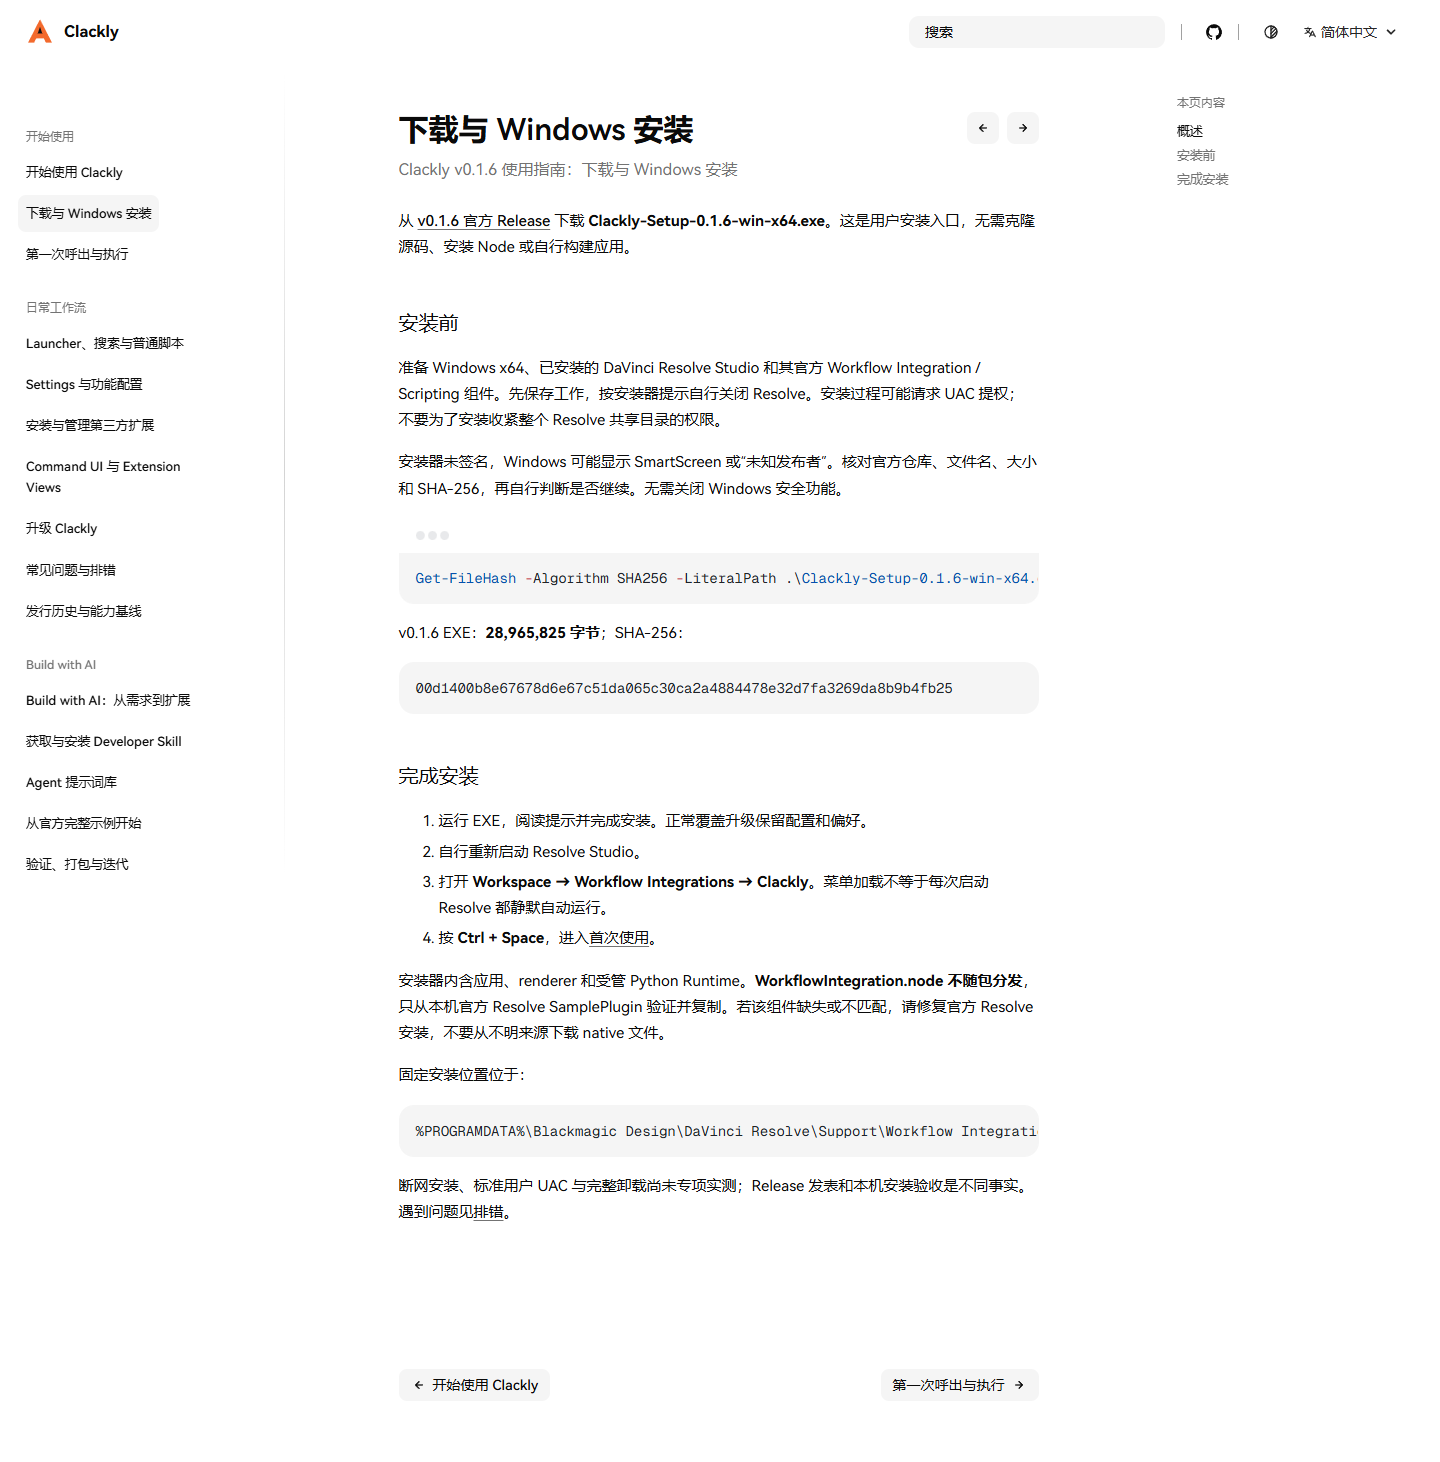
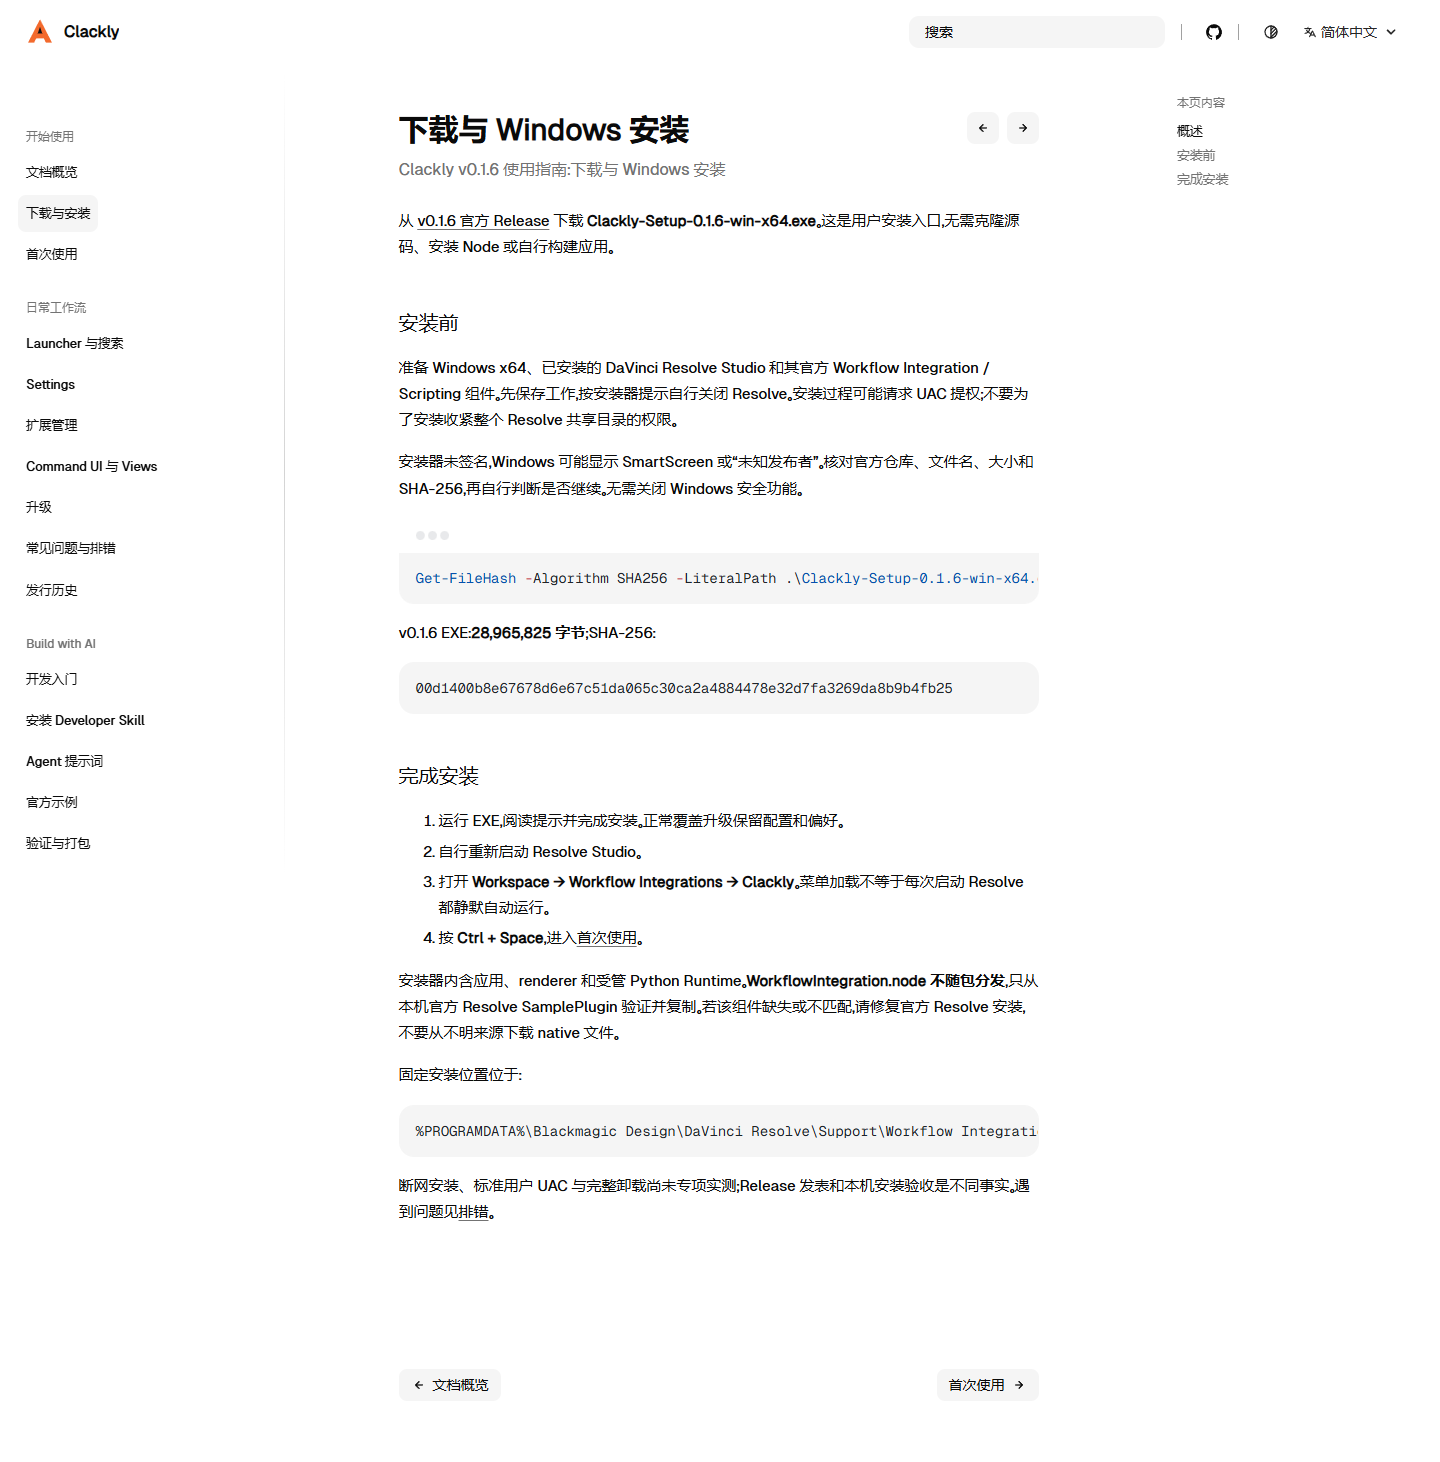
fix(docs): follow the native Black Theme reading experience
Assisted-by: Cindy (https://cindy.app)

diff --git a/site/tests/site.spec.ts b/site/tests/site.spec.ts
@@ -74,7 +74,7 @@ test('mobile navigation works with keyboard and opens a real docs page', async (
   await button.focus();
   await page.keyboard.press('Enter');
   await expect(button).toHaveAttribute('aria-expanded', 'true');
-  await page.locator('.mobile-nav').getByRole('link', { name: '下载与 Windows 安装', exact: true }).click();
+  await page.locator('.mobile-nav').getByRole('link', { name: '下载与安装', exact: true }).click();
   await expect(page).toHaveURL(/\/docs\/install\/$/);
 });
 
@@ -85,6 +85,8 @@ test('responsive pages load assets without overflow or browser errors', async ({
   for (const [name, route, width] of [
     ['desktop', '', 1440], ['mobile', '', 390], ['small', '', 320],
     ['desktop-en', 'en/', 1440], ['mobile-en', 'en/', 390],
+    ['overview', 'docs/', 1440], ['overview-mobile', 'docs/', 320],
+    ['overview-en', 'en/docs/', 1440], ['overview-en-mobile', 'en/docs/', 320],
     ['docs-zh', 'docs/install/', 1440], ['docs-mobile', 'docs/install/', 390],
     ['docs-en', 'en/docs/developer/', 1440], ['docs-en-mobile', 'en/docs/developer/', 320],
     ['prompts', 'docs/developer/prompts/', 1440], ['reference-mobile', 'docs/developer/reference/views/', 390],
@@ -99,12 +101,29 @@ test('responsive pages load assets without overflow or browser errors', async ({
   expect(errors).toEqual([]);
 });
 
-test('theme switch changes the reading surface and remains usable', async ({ page }) => {
-  await page.goto('./docs/');
-  const before = await page.locator('html').getAttribute('data-theme');
-  await page.locator('starlight-theme-black-select button').click();
-  await expect(page.locator('html')).not.toHaveAttribute('data-theme', before!);
-  await expect(page.locator('h1')).toBeVisible();
+test('theme switch persists across the overview to AI guide and remains usable', async ({ page }, testInfo) => {
+  for (const locale of ['', 'en/']) {
+    await page.goto('./' + locale + 'docs/');
+    for (const theme of ['light', 'dark']) {
+      if (await page.locator('html').getAttribute('data-theme') !== theme) {
+        const toggle = page.locator('starlight-theme-black-select button');
+        await toggle.focus();
+        await page.keyboard.press('Enter');
+      }
+      await expect(page.locator('html')).toHaveAttribute('data-theme', theme);
+      for (const width of [1440, 320]) {
+        await page.setViewportSize({ width, height: 960 });
+        await page.evaluate(() => document.fonts.ready);
+        await expect(page.locator('h1')).toBeVisible();
+        expect(await page.evaluate(() => document.documentElement.scrollWidth <= innerWidth)).toBeTruthy();
+        await page.screenshot({ path: testInfo.outputPath(`overview-${locale ? 'en' : 'zh'}-${theme}-${width}.png`), fullPage: true, animations: 'disabled' });
+      }
+      await page.locator('.sl-link-card').filter({ hasText: 'Build with AI' }).getByRole('link').click();
+      await expect(page).toHaveURL(new RegExp('/Clackly/' + locale + 'docs/developer/$'));
+      await expect(page.locator('html')).toHaveAttribute('data-theme', theme);
+      await page.goto('./' + locale + 'docs/');
+    }
+  }
 });
 
 test('long translated navigation labels and mobile reference tables remain readable', async ({ page }) => {

diff --git a/site/src/styles/docs.css b/site/src/styles/docs.css
@@ -1,8 +1,4 @@
-:root { --sl-font: 'HarmonyOS Sans', 'Segoe UI', system-ui, sans-serif; --sl-content-width: 48rem; }
-@font-face { font-family: 'HarmonyOS Sans'; src: url('/Clackly/fonts/HarmonyOS_Sans.ttf') format('truetype'); font-display: swap; }
-:root[data-theme='dark'] { --sl-color-bg: #151619; --sl-color-bg-nav: #151619; --sl-color-bg-sidebar: #151619; --sl-color-accent-low: #303238; --sl-color-accent: #bfc2ca; --sl-color-accent-high: #edeef0; }
-:root[data-theme='light'] { --sl-color-accent-low: #e7e8ea; --sl-color-accent: #454950; --sl-color-accent-high: #202226; }
-::selection { background: #bfc2ca; color: #151619; }
+/* Keep Black Theme's Geist type, reading measure and paired light/dark tokens. */
 :focus-visible { outline: 2px solid currentColor; outline-offset: 4px; }
 .sl-markdown-content { overflow-wrap: anywhere; }
 .sl-markdown-content a { text-underline-offset: .2em; }
@@ -10,7 +6,7 @@
 .sidebar-content .entry-link { height: auto; min-height: 30px; line-height: 1.65; }
 .sl-markdown-content table { display: block; max-width: 100%; overflow-x: auto; }
 .sl-markdown-content :is(th, td) { min-width: 8rem; overflow-wrap: normal; }
-html { scrollbar-color: #7d8088 transparent; }
+html { scrollbar-color: var(--muted-foreground) var(--background); }
 
 /* Reuse Ameow’s mobile pagination fix for long translated labels. */
 @media (max-width: 40rem) {

diff --git a/site/DESIGN.md b/site/DESIGN.md
@@ -44,11 +44,11 @@ The dark homepage continues the application's #151619 neutral surface. Light neu
 
 ## Typography
 
-Reuse the application's HarmonyOS Sans asset with platform fallbacks for Chinese. Large two-line home copy has a maximum of 6rem. Documentation keeps a conventional reading column. Monospace is reserved for code and copyable Agent source.
+The product home reuses the application's HarmonyOS Sans asset with platform fallbacks for Chinese. Large two-line home copy has a maximum of 6rem. Documentation follows Black Theme's native Geist Sans/Geist Mono fonts, neutral light/dark palette and reading width, as in Ameow; do not override them with application font or palette tokens. Monospace is reserved for code and copyable Agent source.
 
 ## Layout
 
-The desktop home has a 1120px maximum width, clear navigation, a large value statement and download action, then a full-width command demonstration with the actual compact palette at its native screenshot size. Workflow explanations use divided rows; AI authoring has one copyable prompt and a direct guide link. At 600px, content stacks with 18px gutters. Documentation keeps Starlight's sidebar, contents, search, language and mobile menu; long pagination labels wrap.
+The desktop home has a 1120px maximum width, clear navigation, a large value statement and download action, then a full-width command demonstration with the actual compact palette at its native screenshot size. Workflow explanations use divided rows; AI authoring has one copyable prompt and a direct guide link. At 600px, content stacks with 18px gutters. Documentation keeps Starlight's sidebar, contents, search, language and mobile menu. Use concise localized sidebar labels and the theme's LinkCards for the documentation overview; long pagination labels wrap.
 
 ## Elevation & Depth
 

diff --git a/site/evidence/README.md b/site/evidence/README.md
@@ -17,6 +17,17 @@ Source branch: docs/issue-11-site. Website baseline: public v0.1.6. Original che
 
 All screenshots are from the actual built website at the local /Clackly/ base. Files are full-page captures; open their original size to inspect text.
 
+The 2026-11-08 documentation refinement follows the same starlight-theme-black 0.7.1 setup as Ameow. Both sites already had the theme installed; this pass removes the documentation's application-font/palette overrides, restores native Geist Sans/Geist Mono and theme colors, shortens bilingual navigation labels and uses native LinkCards on the overview. Copy for Agent follows the theme tokens. The product home retains its own visual system.
+
+The 12-test browser suite passed after these changes. The theme test now uses the keyboard control, checks persistence from the overview into the AI guide, and captures both locales at 1440px/320px in both light and dark mode. A focused rerun passed after making captures finish CSS transitions, so the evidence shows settled theme colors.
+
+| Documentation overview | Desktop | 320px phone |
+| --- | --- | --- |
+| Chinese · dark | [View](overview-zh-dark.png) | [View](overview-zh-dark-mobile.png) |
+| Chinese · light | [View](overview-zh-light.png) | [View](overview-zh-light-mobile.png) |
+| English · dark | [View](overview-en-dark.png) | [View](overview-en-dark-mobile.png) |
+| English · light | [View](overview-en-light.png) | [View](overview-en-light-mobile.png) |
+
 | Surface | Desktop | Phone |
 | --- | --- | --- |
 | Chinese home | [1440px](desktop.png) | [390px](mobile.png), [320px](small.png) |

diff --git a/site/README.md b/site/README.md
@@ -41,4 +41,4 @@ public/images/palette.png is an actual Clackly renderer capture with determinist
 
 Review screenshots and validation receipts are linked from Issue #11 and the PR. The site inherits the existing application's neutral surface, typography, logo, controlled corners and keyboard emphasis; the tracked [renderer styles](../resolve-command-center/electron/renderer/styles.css) provide the visual source. This work does not depend on untracked local design notes.
 
-The website uses HarmonyOS Sans © 2021 Huawei Device Co., Ltd. Its [complete license notice and agreement](public/fonts/HARMONYOS_SANS_LICENSE.txt) accompany the unmodified font and are linked from the homepages and documentation entry pages.
+The product home uses HarmonyOS Sans © 2021 Huawei Device Co., Ltd. Its [complete license notice and agreement](public/fonts/HARMONYOS_SANS_LICENSE.txt) accompany the unmodified font and are linked from the homepages and documentation entry pages. Documentation uses Black Theme's native Geist Sans/Geist Mono, reading width and light/dark tokens, matching Ameow's theme setup.
